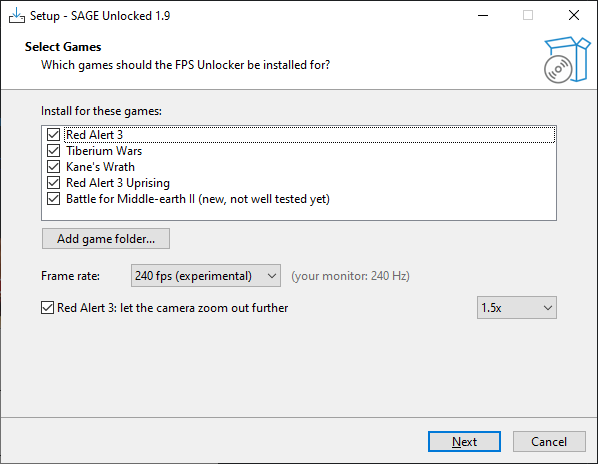
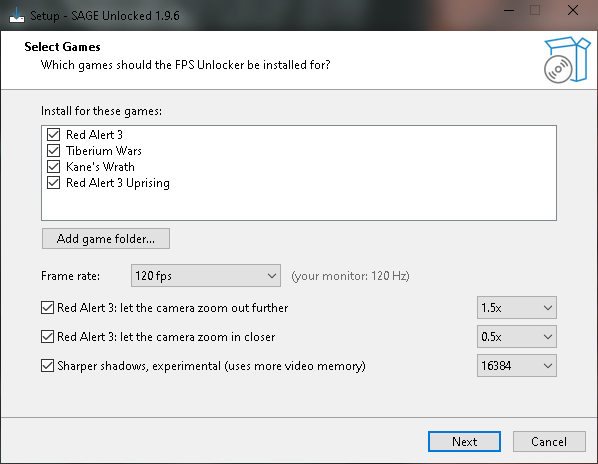
shadows in tw/kw, shadowmap 16384, zoom-in extra (zoomin=), setup + readme

diff --git a/src/Unlocker.cs b/src/Unlocker.cs
@@ -94,7 +94,8 @@ static class Program
     static uint realClockFn;   // set by PatchScheduler when the effects real clock is on
     static uint newTickFlag, modeCheckFn;   // batches: the "new tick?" flag and the engine function
     static bool realclockOpt;
-    static int shadowMapOpt;   // shadowmap=4096 / 8192
+    static int shadowMapOpt;   // shadowmap=4096 / 8192 / 16384
+    static float zoomInOpt = 1f;   // zoomin=0.25..1, 1 = off
 
     // crcdump=1
     static void CrcDump(string dir)
@@ -163,13 +164,14 @@ static class Program
             if (fps < 30 || fps > 240 || fps % 15 != 0) fps = 120;
             float zoom; if (!float.TryParse(ReadIni(ini, "zoom"), System.Globalization.NumberStyles.Float, System.Globalization.CultureInfo.InvariantCulture, out zoom) || zoom < 1f || zoom > 3f) zoom = 1f;
             zoom = Math.Min(zoom, 1.5f);   // further out the ground/water stops drawing at the top
+            float zi; zoomInOpt = float.TryParse(ReadIni(ini, "zoomin"), System.Globalization.NumberStyles.Float, System.Globalization.CultureInfo.InvariantCulture, out zi) && zi >= 0.25f && zi < 1f ? zi : 1f;   // extra: min zoom
             int hz = MonitorHz();
             if (hz >= 30 && fps > hz / 15 * 15) fps = Math.Max(30, hz / 15 * 15);
             img = MapImage(File.ReadAllBytes(exe));
             skip = (ReadIni(ini, "skip") ?? "").ToLowerInvariant();
             realclockOpt = ReadIni(ini, "realclock") == "1";   // effects on real time: opt-in until its crash is found
             offscreenAnim = ReadIni(ini, "offscreenanim") == "1";
-            int sm; shadowMapOpt = int.TryParse(ReadIni(ini, "shadowmap"), out sm) && (sm == 4096 || sm == 8192) ? sm : 0;   // extra: shadow map size
+            int sm; shadowMapOpt = int.TryParse(ReadIni(ini, "shadowmap"), out sm) && (sm == 4096 || sm == 8192 || sm == 16384) ? sm : 0;   // extra: shadow map size
             // bfme2: same engine family, its own code shapes (cdq/idiv), so its own path
             BfmeSites bfme = Scan(img, FrameMsSig).Count == 0 ? FindBfme(img) : null;
             if (bfme != null)
@@ -187,7 +189,7 @@ static class Program
             if (pacing.Count > 0 && BitConverter.ToUInt32(Read(proc, pacing[0], 4), 0) != BitConverter.ToUInt32(img, (int)(pacing[0] - ImageBase)))
                 return 2;
             ApplyPatches(proc, img, fps, zoom, true, null, false);
-            WriteLog(dir, DateTime.Now + "  SAGE Unlocked " + Version + ", " + how + ", fps=" + fps + ", zoom=" + zoom +
+            WriteLog(dir, DateTime.Now + "  SAGE Unlocked " + Version + ", " + how + ", fps=" + fps + ", zoom=" + zoom + (zoomInOpt < 1f ? ", zoomin=" + zoomInOpt : "") +
                 (skip != "" ? ", skip=" + skip : "") + ", exe=" + Path.GetFileName(exe) + "\r\n" + found + "\r\n" + patched + "\r\n");
             return 1;
         }
@@ -282,7 +284,7 @@ static class Program
         HeldCamera held = FindHeldCamera(img);
         Cnc3Fx fx = FindCnc3Fx(img, modelStep);
         TracerSites tracers = FindTracers(img);   // tw/kw
-        ShadowSites shadowSites = FindShadowMap(img);   // ra3 (extra)
+        ShadowSites shadowSites = FindShadowMap(img);   // extra
         uint envUpdate = FindUnique(img, EnvUpdatePattern);   // tw/kw
         uint trailLock = FindTrailLock(img);
         SwaySite sway = FindSway(img);
@@ -347,6 +349,7 @@ static class Program
         }
         else Redirect(proc, sites, (uint)mem);
         if (On("zoom") && zoom > 1f && zoomSite != 0) PatchZoom(proc, zoomSite, netObject, zoom, (uint)mem + 0x98, (uint)mem + 0x4A0);
+        if (On("zoomin") && zoomInOpt < 1f && zoomSite != 0 && ZoomMinOk(img, zoomSite)) PatchZoomIn(proc, zoomSite + 0x16, netObject, zoomInOpt, (uint)mem + 0x1840, (uint)mem + 0x1850);   // +1840h..+1880h
         if (shadowMapOpt > 0 && shadowSites != null && On("shadowmap")) PatchShadowMap(proc, shadowSites, shadowMapOpt);   // extra
         if (On("fades") && fades.Count > 0) PatchFadeFrameReads(proc, img, fades, (uint)mem, (uint)mem + 0x440);
         if (On("scroll") && scrollSlot != 0 && fps > 30) PatchScrollBy(proc, scrollSlot, scrollFunc, fps, (uint)mem + 0x4F0, (uint)mem + 0x4F8, (uint)mem + 0x3C0);
@@ -892,6 +895,32 @@ static class Program
         Protect(proc, (IntPtr)site, (UIntPtr)10, old, out old);
     }
 
+    // zoomin extra: the same clamp(zoom, min, max) (ra3 1.13 0x4D81E0) takes min from slot 0 of the
+    // limits object; it's stored at +16h from the zoom site (sub esp,8 / fstp [esp+4]). multiply it there
+    static bool ZoomMinOk(byte[] img, uint site)
+    {
+        int o = (int)(site + 0x16 - ImageBase);
+        return img.Skip(o).Take(7).SequenceEqual(new byte[] { 0x83, 0xEC, 0x08, 0xD9, 0x5C, 0x24, 0x04 });
+    }
+
+    static void PatchZoomIn(IntPtr proc, uint site, uint netObject, float factor, uint factorVa, uint stubVa)
+    {
+        Write(proc, factorVa, BitConverter.GetBytes(factor));
+        var s = new Asm(stubVa);
+        s.E(0x83, 0x3D); s.D(netObject); s.E(0x00); s.J(0x75, "online");
+        s.E(0xD8, 0x0D); s.D(factorVa);                              // fmul [factor], st0 = min zoom
+        s.L("online");
+        s.E(0x83, 0xEC, 0x08, 0xD9, 0x5C, 0x24, 0x04);               // original code
+        s.Rel(0xE9, site + 7);
+        Write(proc, stubVa, s.Done(0x30));
+        var p = new List<byte> { 0xE9 }; p.AddRange(BitConverter.GetBytes(stubVa - (site + 5))); p.AddRange(new byte[] { 0x90, 0x90 });
+        uint old;
+        if (!Protect(proc, (IntPtr)site, (UIntPtr)7, PAGE_EXECUTE_READWRITE, out old))
+            throw new Exception("couldn't unprotect game memory");
+        Write(proc, site, p.ToArray());
+        Protect(proc, (IntPtr)site, (UIntPtr)7, old, out old);
+    }
+
     // held camera keys
     const string HeldZoomPattern = "80 7C 24 08 00 74 10 8B 0D ?? ?? ?? ?? 8B 01 8B 90 ?? ?? 00 00 FF D2 C2 10 00";
     const string ViewZoomInPattern = "56 8B F1 57 8B 3E 8B 87 ?? ?? 00 00 FF D0 D8 0D ?? ?? ?? ?? 8B 97 ?? ?? 00 00 51 D8 25 ?? ?? ?? ?? 8B CE D9 1C 24 FF D2 5F 5E C3";
@@ -1084,12 +1113,21 @@ static class Program
     // extra (shadowmap=4096 / 8192)
     const string ShadowSetterPattern = "83 BA F0 02 00 00 04 B8 ?? ?? ?? ?? 7C 12 81 F9 00 08 00 00 7F 0A C7 05 ?? ?? ?? ?? 00 08 00 00";
     const string ShadowUpdatePattern = "83 B8 F0 02 00 00 04 7C 13 B9 00 08 00 00 39 0D ?? ?? ?? ?? 7F 06 89 0D";
-    class ShadowSites { public uint Setter, Update; }
+    // tw/kw: 4096 only when a flag is set: cmp flag,0 / je +0A / mov dword [size],1000h (two places)
+    const string Cnc3ShadowUpdatePattern = "38 98 ?? ?? 00 00 74 0A C7 05 ?? ?? ?? ?? 00 10 00 00";
+    const string Cnc3ShadowSetterPattern = "80 B9 ?? ?? 00 00 00 74 0A C7 05 ?? ?? ?? ?? 00 10 00 00";
+    class ShadowSites { public uint Setter, Update; public bool Cnc3; }
 
     static ShadowSites FindShadowMap(byte[] img)
     {
         uint s = FindUnique(img, ShadowSetterPattern), u = FindUnique(img, ShadowUpdatePattern);
-        if (s == 0 || u == 0) return null;
+        if (s == 0 || u == 0)
+        {
+            s = FindUnique(img, Cnc3ShadowSetterPattern); u = FindUnique(img, Cnc3ShadowUpdatePattern);
+            if (s == 0 || u == 0) return null;
+            uint a = BitConverter.ToUInt32(img, (int)(s - ImageBase) + 11), b = BitConverter.ToUInt32(img, (int)(u - ImageBase) + 10);
+            return a == b ? new ShadowSites { Setter = s + 7, Update = u + 6, Cnc3 = true } : null;   // the je
+        }
         // both write the same size global
         uint g1 = BitConverter.ToUInt32(img, (int)(s - ImageBase) + 24), g2 = BitConverter.ToUInt32(img, (int)(u - ImageBase) + 16);
         return g1 == g2 && g1 == BitConverter.ToUInt32(img, (int)(u - ImageBase) + 24) ? new ShadowSites { Setter = s, Update = u } : null;
@@ -1098,6 +1136,11 @@ static class Program
     static void PatchShadowMap(IntPtr proc, ShadowSites t, int size)
     {
         byte[] n = BitConverter.GetBytes((uint)size);
+        if (t.Cnc3)
+        {
+            foreach (uint je in new[] { t.Setter, t.Update }) { Write(proc, je + 8, n); Write(proc, je, new byte[] { 0x90, 0x90 }); }   // always n
+            return;
+        }
         Write(proc, t.Setter + 6, new byte[] { 0 });    // shadow setting >= 0
         Write(proc, t.Setter + 16, n);                   // cmp ecx,n
         Write(proc, t.Setter + 28, n);                   // mov dword [size],n

diff --git a/README.md b/README.md
@@ -56,7 +56,10 @@ Tested on the **Steam** versions (RA3 1.13, Uprising, Tiberium Wars 1.10, Kane's
 Stuff that isn't about frame rate. Off unless you turn it on in the setup (or the ini).
 
 - **Camera zoom-out (RA3):** lets you zoom out further (1.25x or 1.5x). Only in skirmish and campaign, online and LAN always use normal zoom so nobody gets an advantage. Further out, the game stops drawing the ground (and water) at the top of the screen on maps with big height differences, so 1.5x is the max.
-- **Sharper shadows (experimental, tested in RA3):** raises the shadow map from the game's 2048 to 4096 or 8192 (`shadowmap=4096` or `8192` in SAGEUnlocked.ini, or pick it in the setup). 8192 uses about 512 MB of video memory.
+- **Camera zoom-in (RA3):** lets you get closer to the action (0.75x or 0.5x, `zoomin=` in the ini). Same rule as zoom-out: skirmish and campaign only.
+- **Sharper shadows (experimental, RA3, Uprising, Tiberium Wars and Kane's Wrath):** raises the shadow map from the game's 2048 (at max settings) to 4096, 8192 or 16384 (`shadowmap=` in SAGEUnlocked.ini, or pick it in the setup). 8192 uses about 512 MB of video memory, 16384 about 2 GB.
+
+![Shadows at 16384, 8192, 4096 and the game's max settings](docs/shadows.jpg)
 
 ## Is it safe?
 
